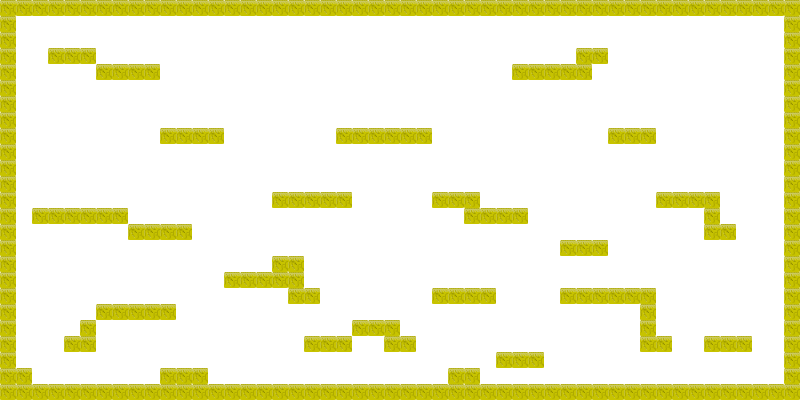
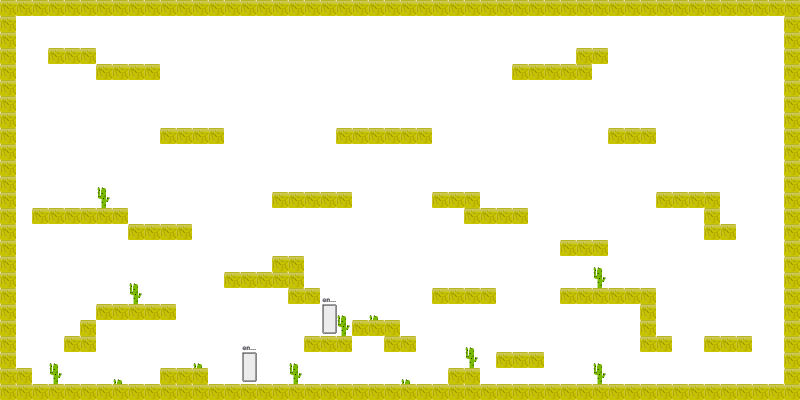
Обновил картинку уровня

diff --git a/core/src/ru/darvell/heisenberg/gameworld/GameRender.java b/core/src/ru/darvell/heisenberg/gameworld/GameRender.java
@@ -10,15 +10,11 @@ import com.badlogic.gdx.maps.tiled.TiledMap;
 import com.badlogic.gdx.maps.tiled.TiledMapRenderer;
 import com.badlogic.gdx.maps.tiled.renderers.OrthoCachedTiledMapRenderer;
 import com.badlogic.gdx.math.Vector2;
-import com.badlogic.gdx.math.Vector3;
 import com.badlogic.gdx.physics.box2d.Box2DDebugRenderer;
-import com.badlogic.gdx.utils.PerformanceCounter;
 import ru.darvell.heisenberg.gameobjects.Bullet;
 import ru.darvell.heisenberg.gameobjects.Heisenberg;
 import ru.darvell.heisenberg.helpers.AssetLoader;
-import sun.management.counter.perf.PerfStringCounter;
 
-import java.util.Properties;
 
 /**
  * Класс отрисовывает картинку
@@ -42,8 +38,8 @@ public class GameRender {
 	public GameRender(GameWorld gameWorld, TiledMap tiledMap){
 		this.gameWorld = gameWorld;
 		camera = new OrthographicCamera();
-		camera.setToOrtho(false, 100, 80);
-//		camera.setToOrtho(false, 800, 600);
+//		camera.setToOrtho(false, 100, 80);
+		camera.setToOrtho(false, 800, 600);
 
 
 		batcher = new SpriteBatch();
@@ -64,7 +60,7 @@ public class GameRender {
 	}
 
 	public void render(float delta) {
-		Gdx.gl.glClearColor(0, 0, 0.2f, 1);
+		Gdx.gl.glClearColor(29/255.0f, 166/255.0f, 249/255.0f, 1);
 		Gdx.gl.glClear(GL20.GL_COLOR_BUFFER_BIT);
 //		Gdx.app.log("GameRenderer", "render");
 
@@ -74,25 +70,25 @@ public class GameRender {
 		box2dRender.render(gameWorld.get2dBWorld(), camera.combined);
 
 		gameWorld.get2dBWorld().step(delta, 4, 4);
-//		batcher.begin();
-//
-//		batcher.draw(AssetLoader.map,0,0,800*2,400*2);
-//
-//		for(Bullet bullet : gameWorld.getBullets()){
-//			if (bullet.getStatus()){
-//				batcher.draw(AssetLoader.bullet_r, bullet.getX()*10-150, bullet.getY()*10-145, 5, 3);
-//			}
-//		}
-//		batcher.draw(AssetLoader.textur, heisenberg.getX()*10-150, heisenberg.getY()*10-170, heisenberg.getWidth(), heisenberg.getHeight());
-//		batcher.end();
-//
-//
-////		tiledMapRenderer.setView(camera);
-////		tiledMapRenderer.render();
-//
-//		setPositionCamera(heisenberg.getPosition());
-//		camera.update();
-//		batcher.setProjectionMatrix(camera.combined);
+		batcher.begin();
+
+		batcher.draw(AssetLoader.map,0,0,800*2,400*2);
+
+		for(Bullet bullet : gameWorld.getBullets()){
+			if (bullet.getStatus()){
+				batcher.draw(AssetLoader.bullet_r, bullet.getX()*10-150, bullet.getY()*10-145, 5, 3);
+			}
+		}
+		batcher.draw(AssetLoader.textur, heisenberg.getX()*10-150, heisenberg.getY()*10-170, heisenberg.getWidth(), heisenberg.getHeight());
+		batcher.end();
+
+
+//		tiledMapRenderer.setView(camera);
+//		tiledMapRenderer.render();
+
+		setPositionCamera(heisenberg.getPosition());
+		camera.update();
+		batcher.setProjectionMatrix(camera.combined);
 
 
 	}

diff --git a/core/src/ru/darvell/heisenberg/levels/TestLevel.java b/core/src/ru/darvell/heisenberg/levels/TestLevel.java
@@ -5,18 +5,12 @@ import com.badlogic.gdx.Input;
 import com.badlogic.gdx.InputProcessor;
 import com.badlogic.gdx.Screen;
 import com.badlogic.gdx.graphics.FPSLogger;
-import com.badlogic.gdx.graphics.GL20;
-import com.badlogic.gdx.graphics.OrthographicCamera;
-import com.badlogic.gdx.graphics.profiling.GLProfiler;
 import com.badlogic.gdx.maps.tiled.TiledMap;
-import com.badlogic.gdx.maps.tiled.TiledMapRenderer;
 import com.badlogic.gdx.maps.tiled.TmxMapLoader;
-import com.badlogic.gdx.maps.tiled.renderers.OrthoCachedTiledMapRenderer;
 import ru.darvell.heisenberg.HeisenbergGame;
 import ru.darvell.heisenberg.gameworld.GameRender;
 import ru.darvell.heisenberg.gameworld.GameWorld;
 import ru.darvell.heisenberg.gameworld.WorldController;
-import ru.darvell.heisenberg.helpers.InputHandler;
 
 /**
  * Тестовый уровень. Для того, чтобы
@@ -32,10 +26,11 @@ import ru.darvell.heisenberg.helpers.InputHandler;
 //TODO Несложный босс (Несложный в плане реализации)
 //TODO Подумать над разного рода усилениями
 //TODO Повесить рекламу
-//TODO Подгрузка врагов с карты
+//Подгрузка врагов с карты
 //TODO Отображение инф о игроке
 //TODO Система очков (Продумать)
 //TODO Подгрузка разных уровней
+//TODO Разобраться с масштабирование в рендере
 
 
 
